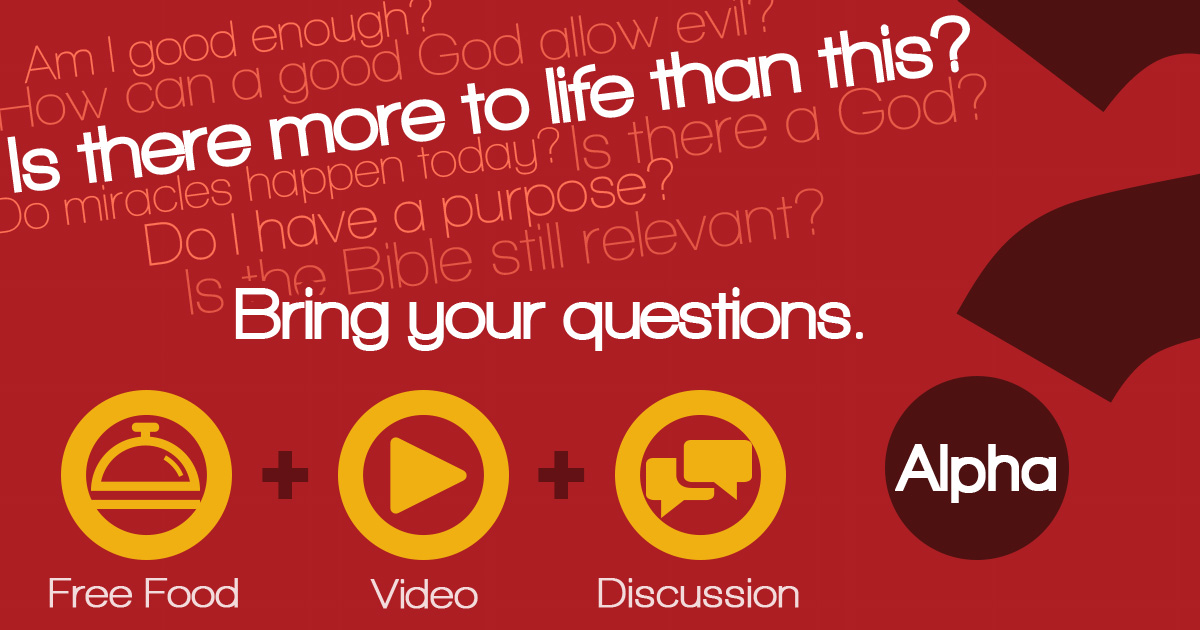
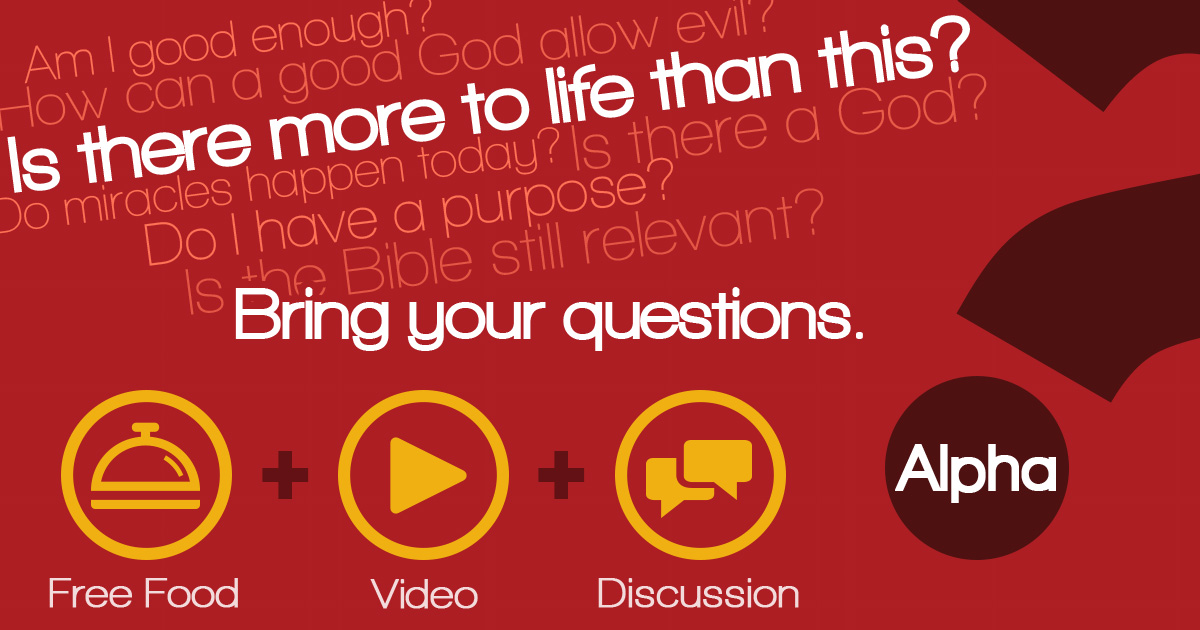
improving rendering of static images by echoing, rather than opening and re-rendering.

diff --git a/facebook.php b/facebook.php
@@ -23,35 +23,17 @@ $dml = new SimpleXMLElement(get_data('https://drexelforchrist.org' . $_SERVER['P
 try {
 	if ($dml->document->title == "Free Hot Chocolate & Cookies") {
 		header('Content-type: image/jpeg');
-		$jpg_image = imagecreatefromjpeg('Cookies-opengraph.jpg');
-
-		// Send Image to Browser
-		imagejpeg($jpg_image);
-
-		// Clear Memory
-		imagedestroy($jpg_image);
+		echo file_get_contents('Cookies-opengraph.jpg');
 		die();
 	}
 	if ($dml->document->title == "Alpha") {
 		header('Content-type: image/jpeg');
-		$jpg_image = imagecreatefromjpeg('alpha-opengraph.jpg');
-
-		// Send Image to Browser
-		imagejpeg($jpg_image);
-
-		// Clear Memory
-		imagedestroy($jpg_image);
+		echo file_get_contents('alpha-opengraph.jpg');
 		die();
 	}
 	if ($dml->document->title == "Valentine's Formal") {
 		header('Content-type: image/jpeg');
-		$jpg_image = imagecreatefromjpeg('Valentine-social.jpg');
-
-		// Send Image to Browser
-		imagejpeg($jpg_image);
-
-		// Clear Memory
-		imagedestroy($jpg_image);
+		echo file_get_contents('Valentine-social.jpg');
 		die();
 	}
 } catch (Exception $e) {
